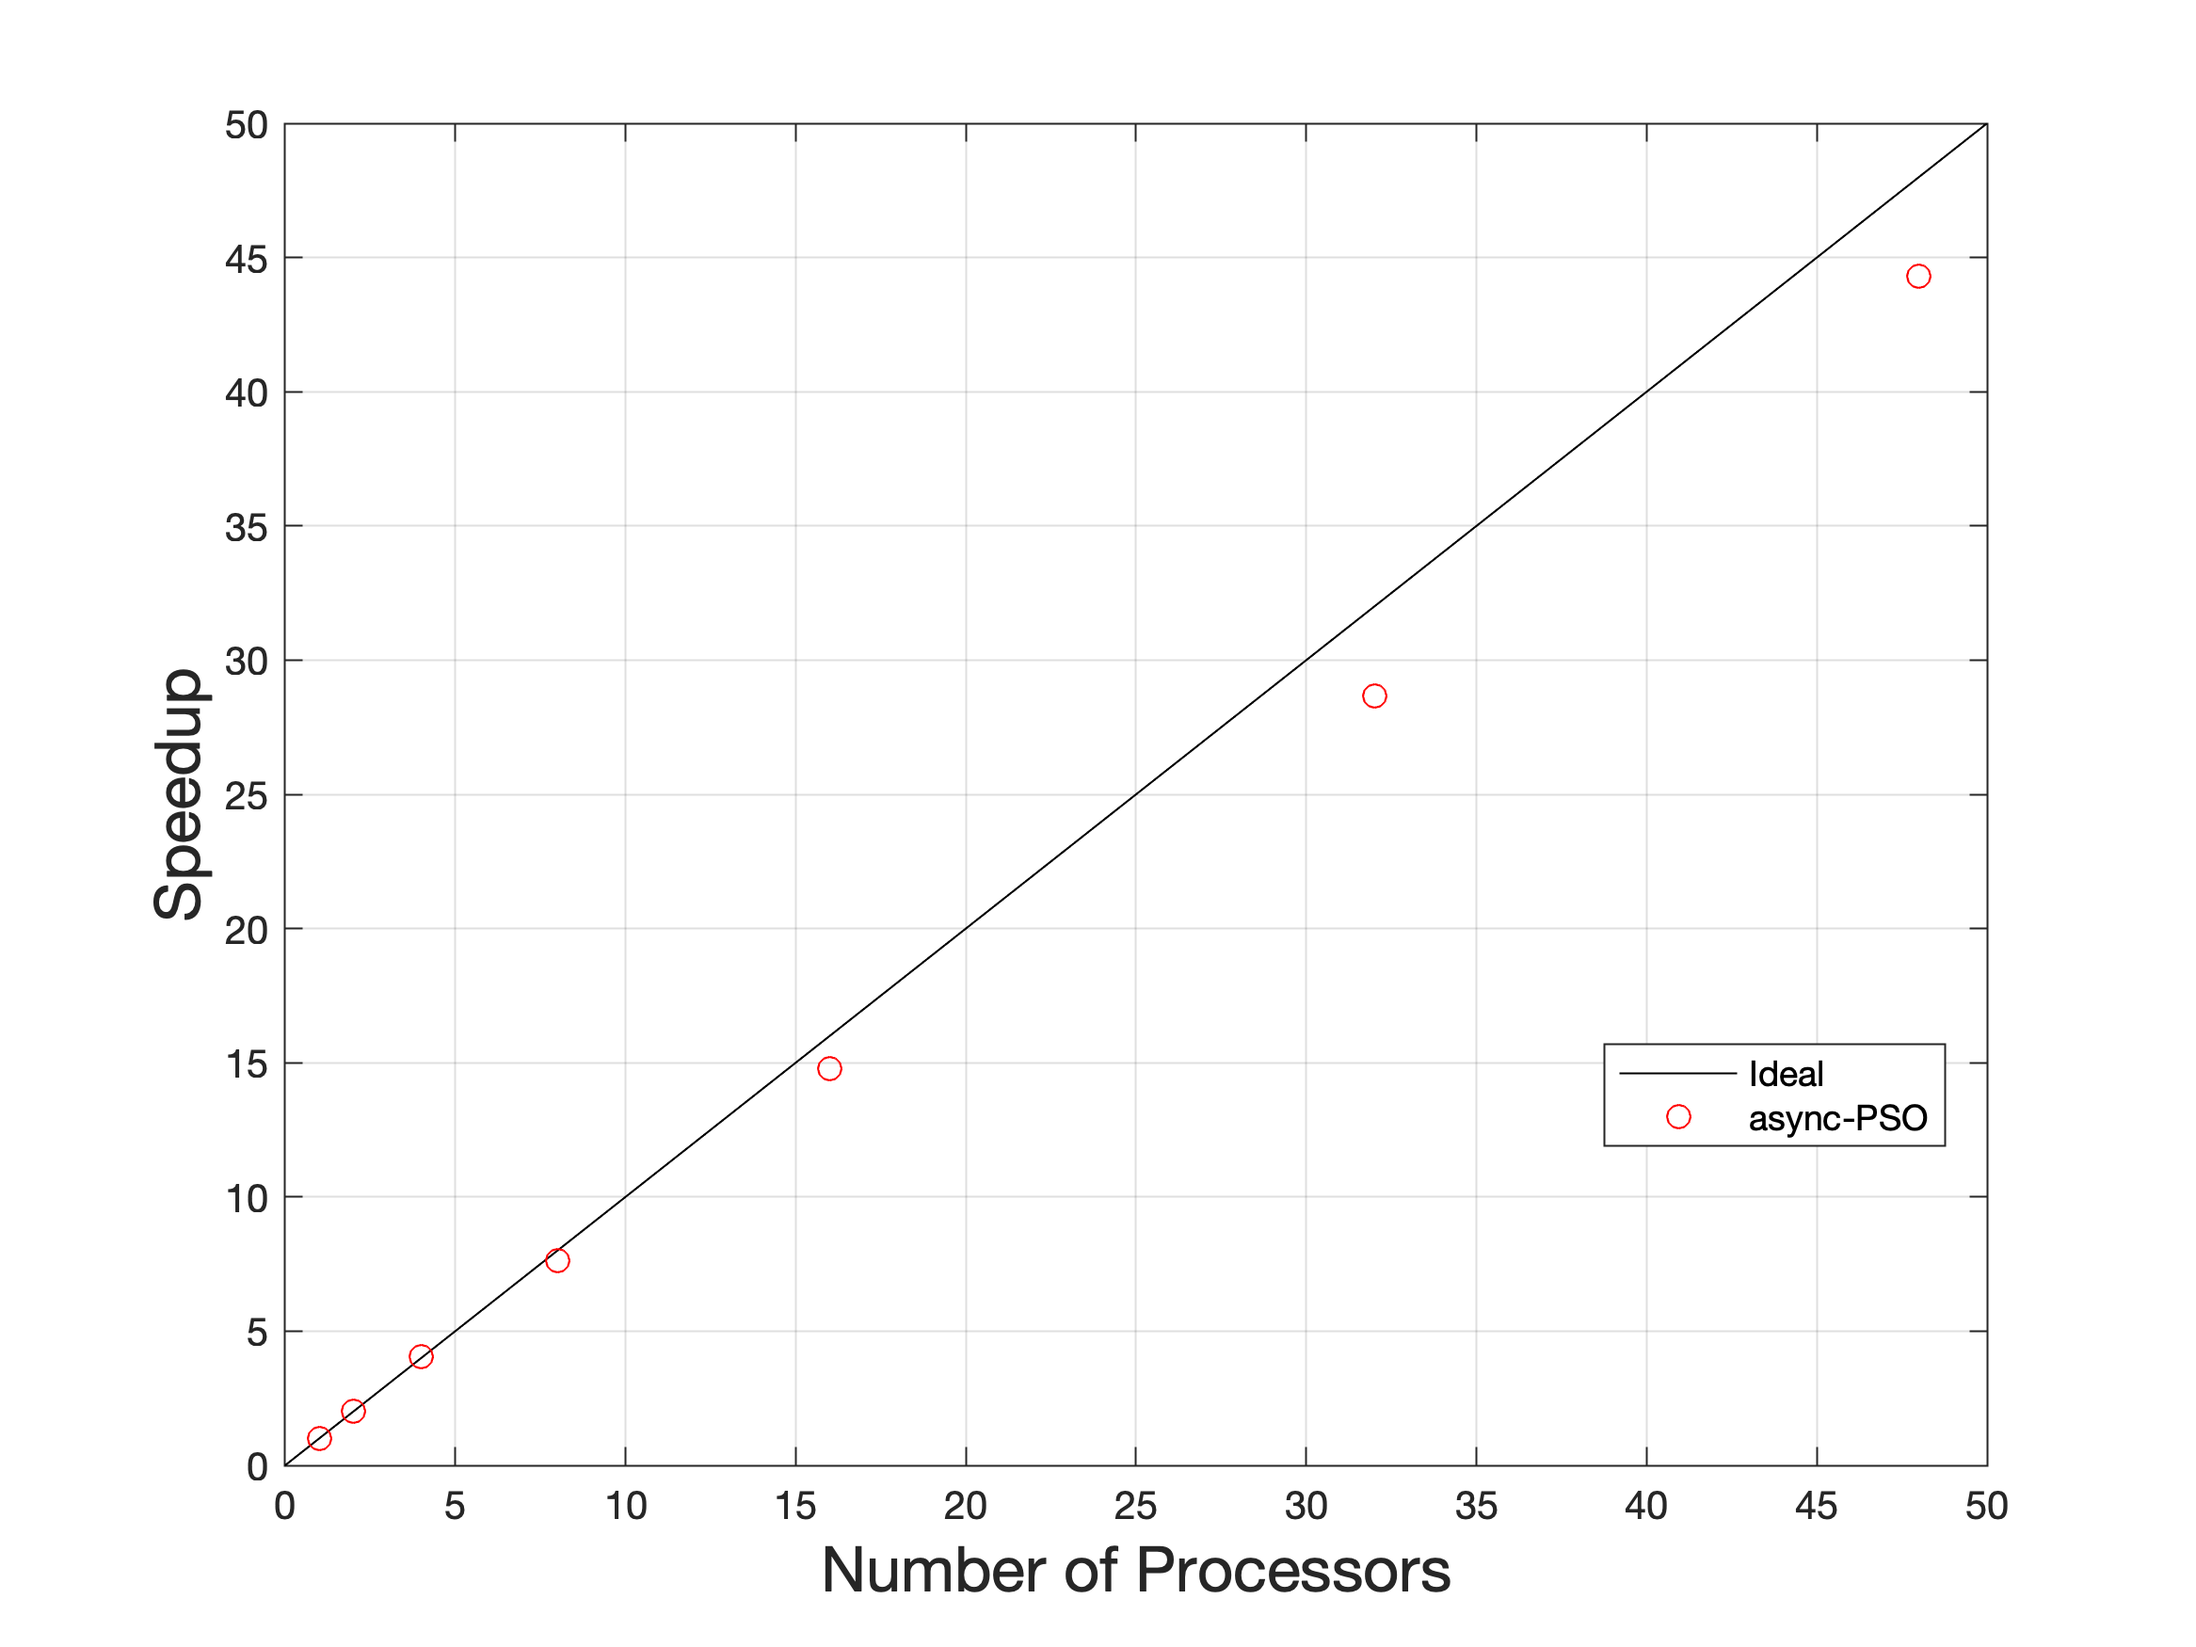
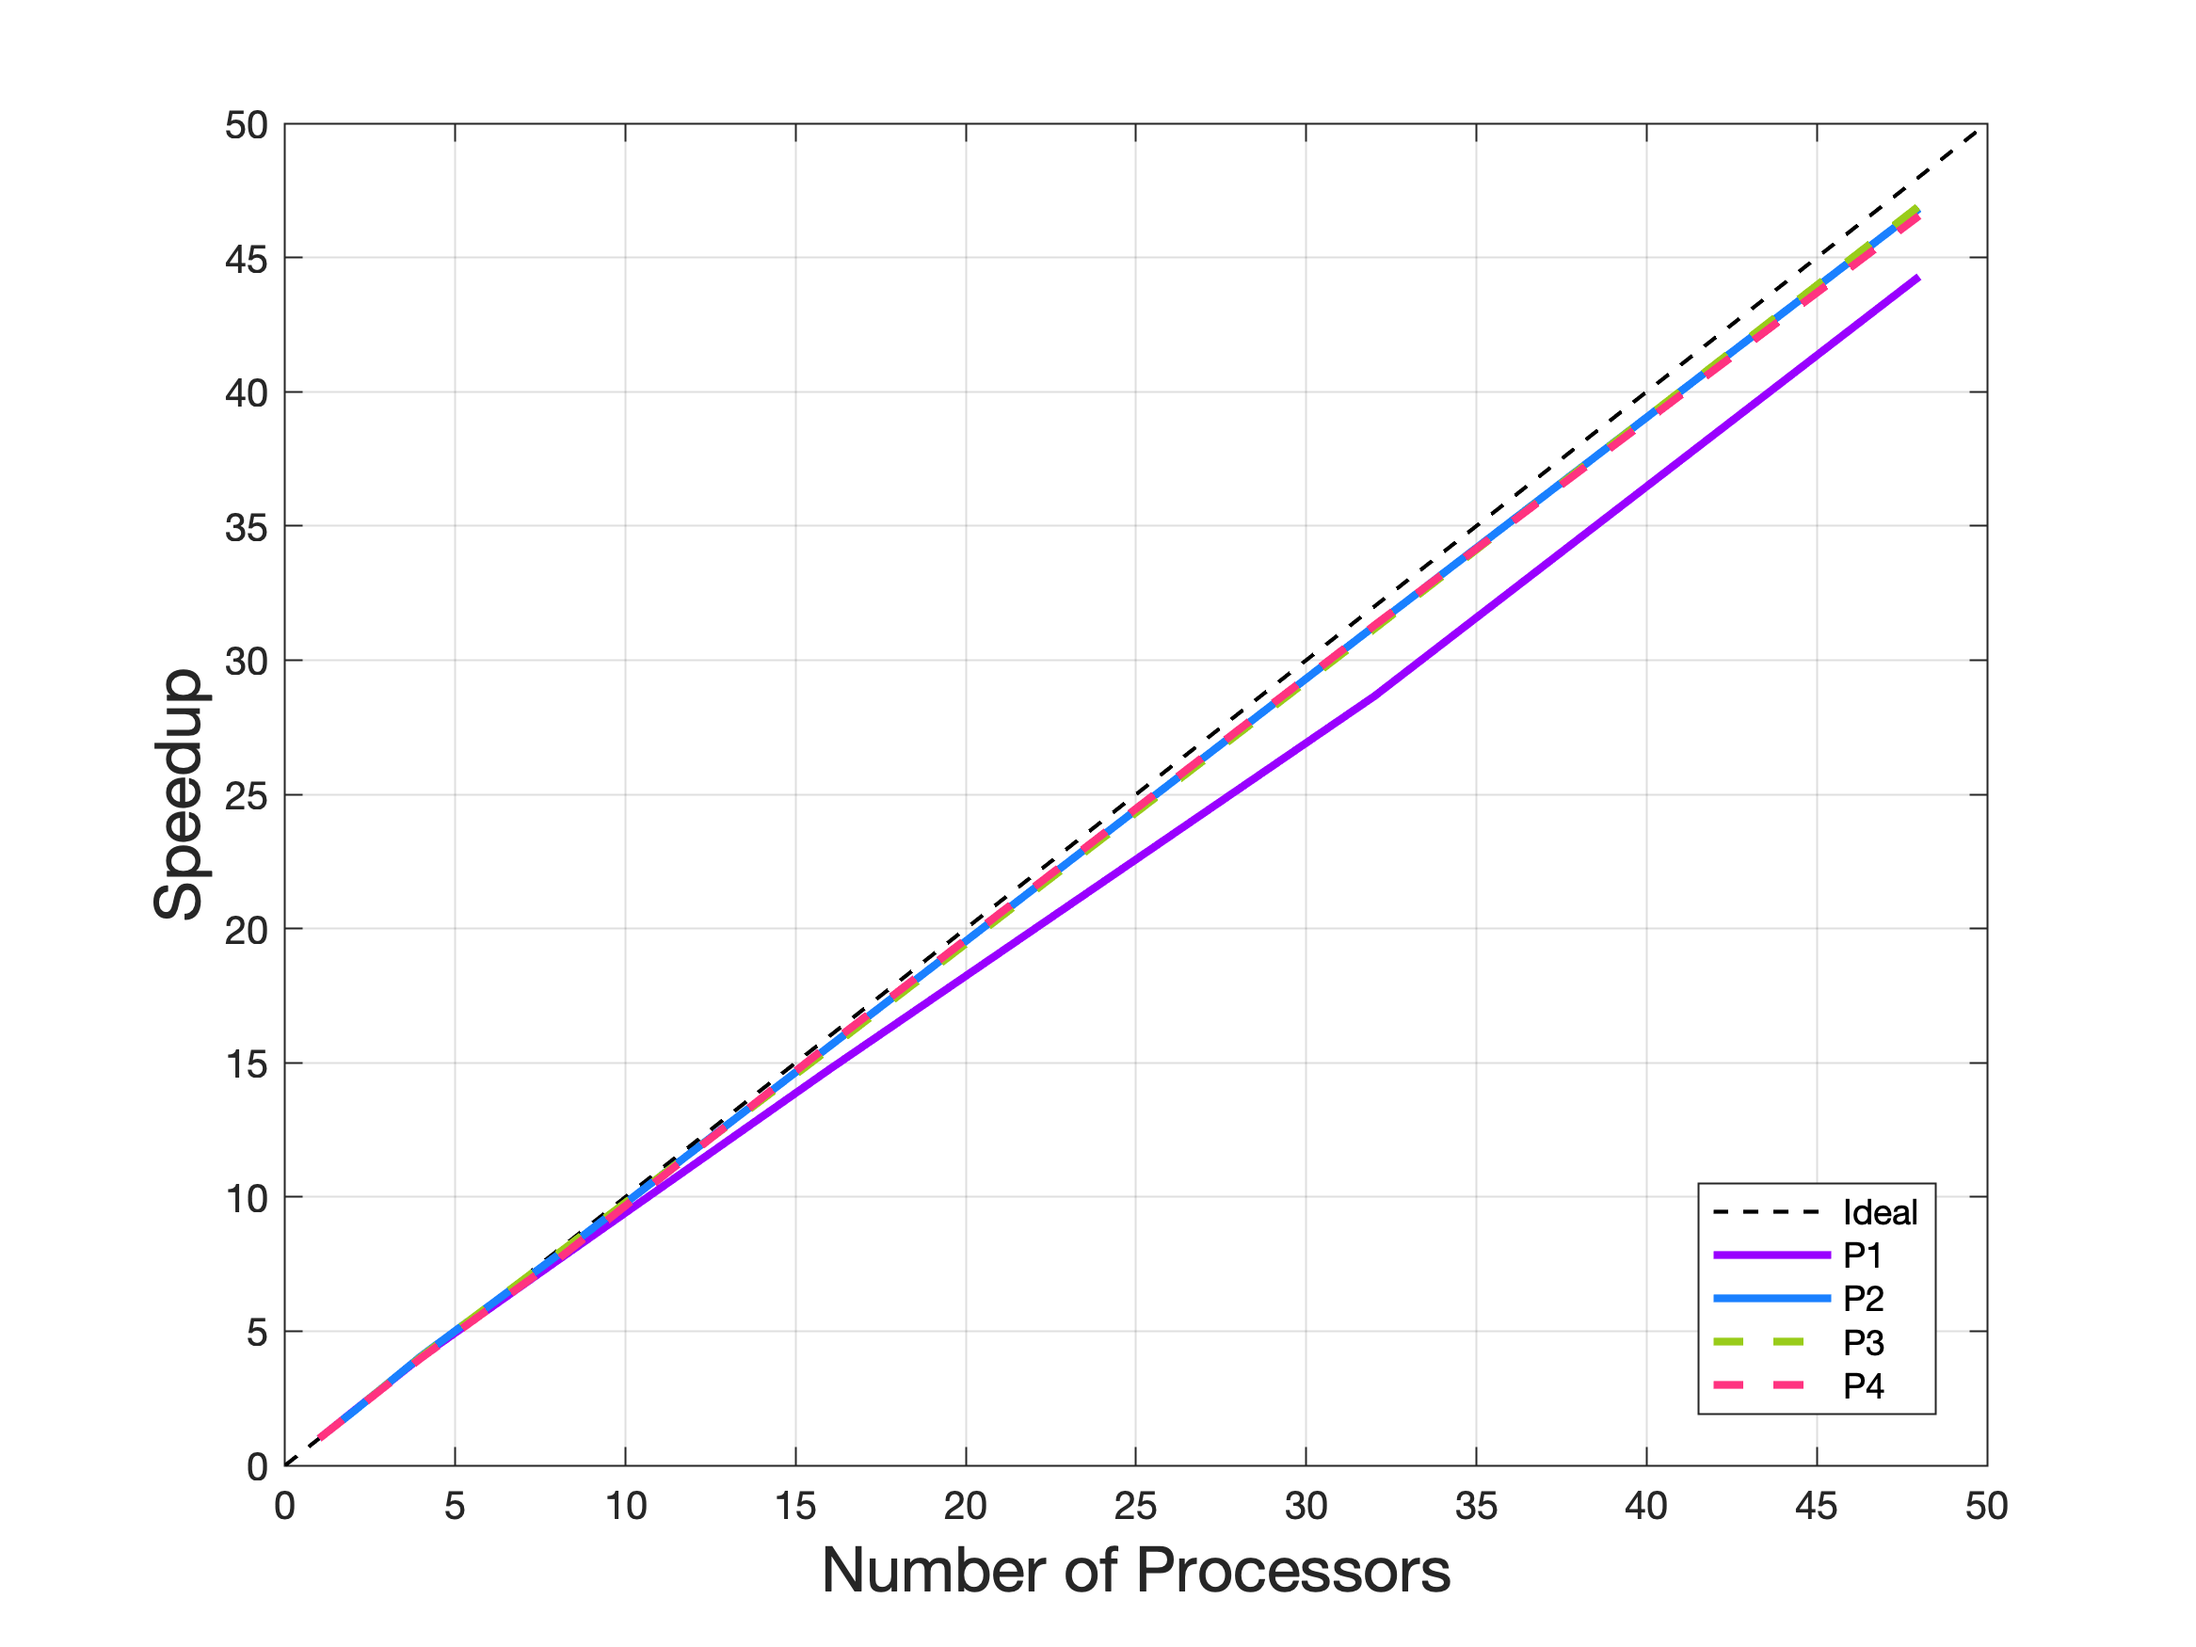
push some changes to the code that's being started up for a synchronized comparison and update the README

diff --git a/src/sync_pso/sync_swarm.hpp b/src/sync_pso/sync_swarm.hpp
@@ -1,24 +1,22 @@
 //
-//  swarm.hpp
+//  sync_swarm.hpp
 //  async_pso
 //
-//  Created by Christian Howard on 6/26/19.
+//  Created by Christian Howard on 6/28/19.
 //  Copyright © 2019 Christian Howard. All rights reserved.
 //
 
-#ifndef swarm_hpp
-#define swarm_hpp
+#ifndef sync_swarm_hpp
+#define sync_swarm_hpp
 
-#include <mpi.h>
 #include <random>
 #include <vector>
 #include "global_communicator.hpp"
 #include "../particle/particle.hpp"
 
-
-namespace async {
+namespace sync {
     namespace pso {
-    
+        
         template<typename func_type>
         class swarm {
         public:
@@ -65,16 +63,14 @@ namespace async {
             double w, phi_l, phi_g;
             
             // particles of the swarm
-            std::vector<particle> particles;
+            std::vector<particle>   particles;
+            particle                global_best;
             
             // bounds for the domain
             std::vector<double> lb, ub;
             
             // objective function
             func_type objective_func;
-            
-            // global communicator
-            global_comm gcom;
             
             // random number generator
             std::mt19937 gen;
@@ -85,10 +81,10 @@ namespace async {
             
             
         };
-    
+        
     }// end namespace pso
-}// end namespace async
+}// end namespace sync
 
-#include "swarm.hxx"
+#include "sync_swarm.hxx"
 
-#endif /* swarm_hpp */
+#endif /* sync_swarm_h */

diff --git a/README.md b/README.md
@@ -13,11 +13,19 @@
  This asynchronous PSO method was written recently (June 26th), so there has not been a lot of time to build out a lot of features. I would like to investigate some other topologies, perhaps even some other techniques for resolving particles that leave the hypercube search domain. I think it would be great to find a way to pass around particles if a given process is seeing it operates slower than some other process. I may consider
 
  # Sample Parallel Results
- The below figure is for a basic sample test problem that does 1000000 iterations with a fixed swarm size of 480 that gets distributed across 1, 2, 4, 8, 16, 32, and 48 processes, respectively. A speedup plot based on the strong scaling related data is shown below.
+ The below figure is for a set of test problems of increasing cost that get distributed across 1, 2, 4, 8, 16, 32, and 48 processes, respectively. All the problems tackle a simple quadratic form objective with different combinations of overall swarm size and number of iterations. The test problems are setup as:
+ 
+ - **P1**: 480 particles and 1000000 iterations
+ - **P2**: 4800 particles and 2000000 iterations
+ - **P3**: 4800 particles and 4000000 iterations
+ - **P4**: 9600 particles and 4000000 iterations
+ 
+ The speedup plot and strong scaling efficiency plot are shown below.
 
  ![Strong Scaling Speed-up](media/speedup.png)
+  ![Strong Scaling Efficiency](media/strongscale_eff.png)
 
- The above figure shows that indeed the algorithm appears to scale pretty well, though it is totally reasonable to expect there might be some work to do to improve the efficiency further.
+ The above figure shows that indeed the algorithm maintains a near ideal speed up and relatively good efficiency.
 
  # Contact Info
  Email: choward1491@gmail.com
